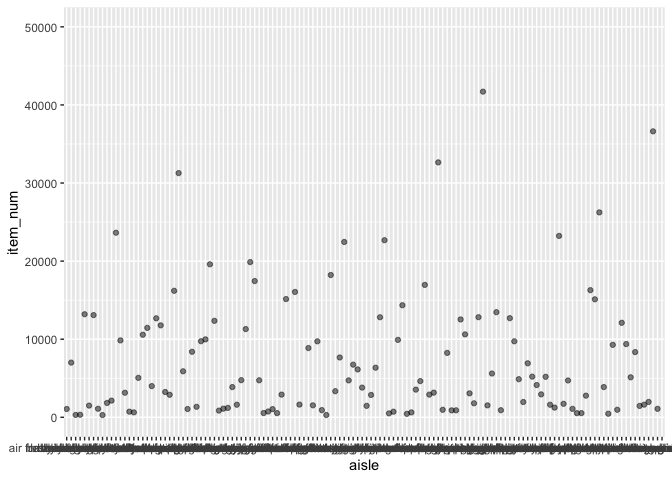
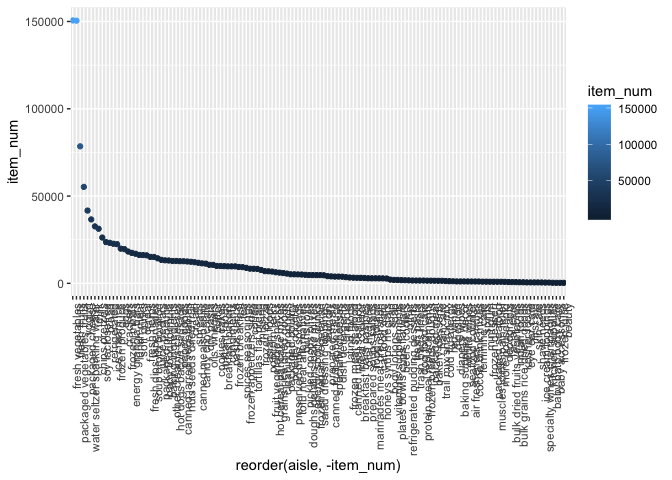
final check

diff --git a/p8105_hw3_yw3236.md b/p8105_hw3_yw3236.md
@@ -67,38 +67,15 @@ formated_brfss_smart2010_2002 = formated_brfss_smart2010 %>%
 View(formated\_brfss\_smart2010\_2002)
 
 ``` r
-formated_brfss_smart2010_2002_to_2010 = formated_brfss_smart2010 %>%
-  select(., year, state, county) %>%
-  unique(.) %>%
+plot_2002_to_2010 = formated_brfss_smart2010 %>%
+  select(., year, state) %>%
   group_by(year, state) %>%
-  summarize(n_location = n())
+  summarize(n_location = n()) %>%
+  ggplot() +
+  geom_line(aes(x = year, y = n_location, color = state)) +
+  labs(x = "Year", y = "Number of Locations")
 
-formated_brfss_smart2010_2002_to_2010
-```
-
-    ## # A tibble: 443 x 3
-    ## # Groups:   year [?]
-    ##     year state n_location
-    ##    <int> <chr>      <int>
-    ##  1  2002 AK             1
-    ##  2  2002 AL             1
-    ##  3  2002 AR             1
-    ##  4  2002 AZ             2
-    ##  5  2002 CA             1
-    ##  6  2002 CO             4
-    ##  7  2002 CT             7
-    ##  8  2002 DC             1
-    ##  9  2002 DE             3
-    ## 10  2002 FL             7
-    ## # ... with 433 more rows
-
-``` r
-interaction.plot(formated_brfss_smart2010_2002_to_2010$year, 
-                 formated_brfss_smart2010_2002_to_2010$state, 
-                 formated_brfss_smart2010_2002_to_2010$n_location, 
-                 xlab = "Year", 
-                 ylab = "Number of Locations in Each State" , 
-                 legend = T)
+plot_2002_to_2010
 ```
 
 ![](p8105_hw3_yw3236_files/figure-markdown_github/unnamed-chunk-5-1.png) View(formated\_brfss\_smart2010\_2002\_to\_2010)
@@ -111,17 +88,17 @@ formated_brfss_smart2010_excellent_NY = formated_brfss_smart2010 %>%
   arrange(., year, county) %>%
   filter(., response == "Excellent") %>%
   group_by(year) %>%
-  summarise(mean_ny_excellent = mean(data_value), var_ny_excellent = var(data_value)) %>%
+  summarise(mean_ny_excellent = mean(data_value), std_ny_excellent = sqrt(var(data_value))) %>%
   knitr::kable(digits = 1) 
 
 formated_brfss_smart2010_excellent_NY
 ```
 
-|     year|     mean\_ny\_excellent|  var\_ny\_excellent|
+|     year|     mean\_ny\_excellent|  std\_ny\_excellent|
 |--------:|-----------------------:|-------------------:|
-|     2002|                    24.0|                20.1|
-|     2006|                    22.5|                16.0|
-|     2010|                    22.7|                12.7|
+|     2002|                    24.0|                 4.5|
+|     2006|                    22.5|                 4.0|
+|     2010|                    22.7|                 3.6|
 |  View(fo|  rmated\_brfss\_smart20|  10\_excellent\_NY)|
 
 ``` r
@@ -130,30 +107,9 @@ response_average_prop = formated_brfss_smart2010 %>%
   group_by(year, state, response) %>%
   summarise(average_prop = mean(data_value))
 
-response_average_prop[order(response_average_prop$response),]
-```
-
-    ## # A tibble: 2,215 x 4
-    ## # Groups:   year, state [443]
-    ##     year state response  average_prop
-    ##    <int> <chr> <fct>            <dbl>
-    ##  1  2002 AK    Excellent         27.9
-    ##  2  2002 AL    Excellent         18.5
-    ##  3  2002 AR    Excellent         24.1
-    ##  4  2002 AZ    Excellent         24.1
-    ##  5  2002 CA    Excellent         22.7
-    ##  6  2002 CO    Excellent         23.1
-    ##  7  2002 CT    Excellent         29.1
-    ##  8  2002 DC    Excellent         29.3
-    ##  9  2002 DE    Excellent         20.9
-    ## 10  2002 FL    Excellent         25.7
-    ## # ... with 2,205 more rows
-
-``` r
 ggplot(response_average_prop, aes(x = year, y = average_prop)) +
   geom_point() +
-  facet_grid(~response) +
-  viridis::scale_fill_viridis(discrete = TRUE)
+  facet_grid(~response)
 ```
 
     ## Warning: Removed 21 rows containing missing values (geom_point).
@@ -174,6 +130,12 @@ n_aisles = nrow(instacart %>%
   select(., aisle) %>%
   unique(.))
 
+n_aisles
+```
+
+    ## [1] 134
+
+``` r
 most_order_aisles = instacart %>%
   select(., aisle, product_id) %>%
   arrange(., aisle, product_id) %>%
@@ -181,7 +143,18 @@ most_order_aisles = instacart %>%
   summarise(item_num = n()) %>%
   arrange(., item_num) %>%
   tail(5)
+
+most_order_aisles
 ```
+
+    ## # A tibble: 5 x 2
+    ##   aisle                      item_num
+    ##   <chr>                         <int>
+    ## 1 packaged cheese               41699
+    ## 2 yogurt                        55240
+    ## 3 packaged vegetables fruits    78493
+    ## 4 fresh fruits                 150473
+    ## 5 fresh vegetables             150609
 
 View(most\_order\_aisles)
 
@@ -190,15 +163,14 @@ order_aisles = instacart %>%
   select(., aisle, product_id) %>%
   arrange(., aisle, product_id) %>%
   group_by(aisle) %>%
-  summarise(item_num = n())
+  summarise(item_num = n()) %>%
+  arrange(., desc(item_num)) %>%
+  ggplot() +  
+  geom_point(aes(x = reorder(aisle, -item_num), y = item_num, color = item_num)) +
+  theme(axis.text.x = element_text(angle = 90, hjust = 1, size = rel(1)))
 
-ggplot(order_aisles, aes(x = aisle, y = item_num)) +  
-  geom_point(alpha = .5) +
-  theme(legend.position = "bottom") +
-  ylim(0, 50000)
+order_aisles
 ```
-
-    ## Warning: Removed 4 rows containing missing values (geom_point).
 
 ![](p8105_hw3_yw3236_files/figure-markdown_github/unnamed-chunk-10-1.png) View(order\_aisles)
 
@@ -225,11 +197,148 @@ popular_pvf_item = popular_aisles %>%
   arrange(., item_num) %>%
   tail(1)
 
-table = tibble(
+tibble(
   ailse = c("baking ingredients", "dog food care", "packaged vegetables fruits"),
   popular_item = c(popular_bi_item$product_name, popular_dfc_item$product_name, popular_pvf_item$product_name)
 ) %>%
   knitr::kable(digits = 1) 
 ```
 
-View(popular\_aisles) View(table)
+| ailse                      | popular\_item                                 |
+|:---------------------------|:----------------------------------------------|
+| baking ingredients         | Light Brown Sugar                             |
+| dog food care              | Snack Sticks Chicken & Rice Recipe Dog Treats |
+| packaged vegetables fruits | Organic Baby Spinach                          |
+
+``` r
+mean_hour = instacart %>%
+  select(., product_name, order_hour_of_day, order_dow) %>%
+  filter(., product_name == "Pink Lady Apples" | product_name == "Coffee Ice Cream") %>%
+  group_by(order_dow, product_name) %>%
+  summarise(mean_hour_day = mean(order_hour_of_day)) %>%
+  rename(day = order_dow) 
+
+table_mean_hour = mean_hour %>%
+  mutate(mean_hour_day = round(mean_hour_day, 2)) %>%
+  mutate(mean_hour_day = format(mean_hour_day, nsmall = 2)) %>%
+  separate(mean_hour_day, into = c("hours", "mins"), sep = "\\.") %>%   
+  mutate(mins = round(as.numeric(mins)*0.6)) %>%  
+  mutate(average_time_order = paste(hours, "hours", mins, "mins")) %>% 
+  select(day, product_name, average_time_order) %>%   
+  spread(key = day, value = average_time_order) %>% 
+  knitr::kable(digits = 2, col.names = c("Product", "Sun", "Mon", "Tue", "Wed", "Thu", "Fri", "Sat"),
+               caption = "Mean Time of Day Most Listed Items Were Ordered")
+
+table_mean_hour
+```
+
+| Product          | Sun              | Mon              | Tue              | Wed              | Thu              | Fri              | Sat              |
+|:-----------------|:-----------------|:-----------------|:-----------------|:-----------------|:-----------------|:-----------------|:-----------------|
+| Coffee Ice Cream | 13 hours 46 mins | 14 hours 19 mins | 15 hours 23 mins | 15 hours 19 mins | 15 hours 13 mins | 12 hours 16 mins | 13 hours 50 mins |
+| Pink Lady Apples | 13 hours 26 mins | 11 hours 22 mins | 11 hours 42 mins | 14 hours 15 mins | 11 hours 33 mins | 12 hours 47 mins | 11 hours 56 mins |
+
+Problem 3
+=========
+
+``` r
+data(ny_noaa)
+```
+
+View(ny\_noaa)
+
+``` r
+formated_ny_noaa = ny_noaa %>% 
+  ungroup() %>%
+  mutate(year = format(date, "%Y"), month = format(date, "%m"), day = format(date, "%d")) %>%
+  mutate(prcp = prcp/10, tmax = as.numeric(tmax)/10, tmin = as.numeric(tmin)/10) %>%
+  select(., id, year, month, day, prcp, snow, snwd, tmax, tmin) 
+
+formated_ny_noaa
+```
+
+    ## # A tibble: 2,595,176 x 9
+    ##    id          year  month day    prcp  snow  snwd  tmax  tmin
+    ##    <chr>       <chr> <chr> <chr> <dbl> <int> <int> <dbl> <dbl>
+    ##  1 US1NYAB0001 2007  11    01       NA    NA    NA    NA    NA
+    ##  2 US1NYAB0001 2007  11    02       NA    NA    NA    NA    NA
+    ##  3 US1NYAB0001 2007  11    03       NA    NA    NA    NA    NA
+    ##  4 US1NYAB0001 2007  11    04       NA    NA    NA    NA    NA
+    ##  5 US1NYAB0001 2007  11    05       NA    NA    NA    NA    NA
+    ##  6 US1NYAB0001 2007  11    06       NA    NA    NA    NA    NA
+    ##  7 US1NYAB0001 2007  11    07       NA    NA    NA    NA    NA
+    ##  8 US1NYAB0001 2007  11    08       NA    NA    NA    NA    NA
+    ##  9 US1NYAB0001 2007  11    09       NA    NA    NA    NA    NA
+    ## 10 US1NYAB0001 2007  11    10       NA    NA    NA    NA    NA
+    ## # ... with 2,595,166 more rows
+
+``` r
+common_snwd = formated_ny_noaa %>%
+  select(., snwd) %>%
+  filter(., !is.na(snwd)) %>%
+  group_by(snwd) %>%
+  summarise(n = n()) %>%
+  arrange(., n) %>%
+  tail(1)
+
+common_snwd
+```
+
+    ## # A tibble: 1 x 2
+    ##    snwd       n
+    ##   <int>   <int>
+    ## 1     0 1621683
+
+View(formated\_ny\_noaa) View(common\_snwd)
+
+``` r
+jan_jul_temp = formated_ny_noaa %>%
+  select(., id, year, month, day, tmax) %>%
+  filter(., !is.na(tmax)) %>%
+  filter(., month == "01" | month == "07") %>%
+  group_by(year, month, id) %>%
+  summarise(average_max_temp = mean(tmax))
+
+ggplot(jan_jul_temp, aes(x = year, y = average_max_temp)) +
+  geom_point() +
+  facet_grid(~month)
+```
+
+![](p8105_hw3_yw3236_files/figure-markdown_github/unnamed-chunk-15-1.png)
+
+``` r
+ggplot(jan_jul_temp, aes(x = year, y = average_max_temp)) +
+  geom_boxplot() +
+  facet_grid(~month) 
+```
+
+![](p8105_hw3_yw3236_files/figure-markdown_github/unnamed-chunk-15-2.png) View(jan\_jul\_temp)
+
+``` r
+temp = formated_ny_noaa %>%
+  select(., id, year, month, day, tmax, tmin) %>%
+  filter(., !is.na(tmax) & !is.na(tmin)) 
+
+temp_plot = ggplot(temp, aes(x = tmin, y = tmax)) +     
+  geom_density_2d() +    
+  labs(x = "Min Temp (C)",
+       y = "Max Temp (C)")
+
+temp_plot
+```
+
+![](p8105_hw3_yw3236_files/figure-markdown_github/unnamed-chunk-16-1.png) View(temp)
+
+``` r
+snowfall = formated_ny_noaa %>%
+  select(., id, year, month, day, snow) %>%
+  filter(., snow > 0 & snow < 100) %>%
+  group_by(year)
+
+snow_plot = ggplot(snowfall) + 
+  geom_violin(aes(x = year, y = snow)) +
+  labs(x = "Year", y = "Snow (mm)")
+
+snow_plot
+```
+
+![](p8105_hw3_yw3236_files/figure-markdown_github/unnamed-chunk-17-1.png) View(snowfall)
